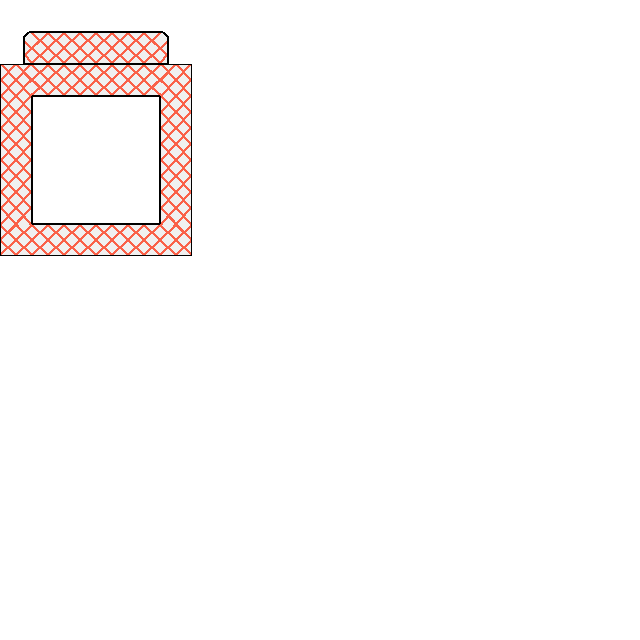
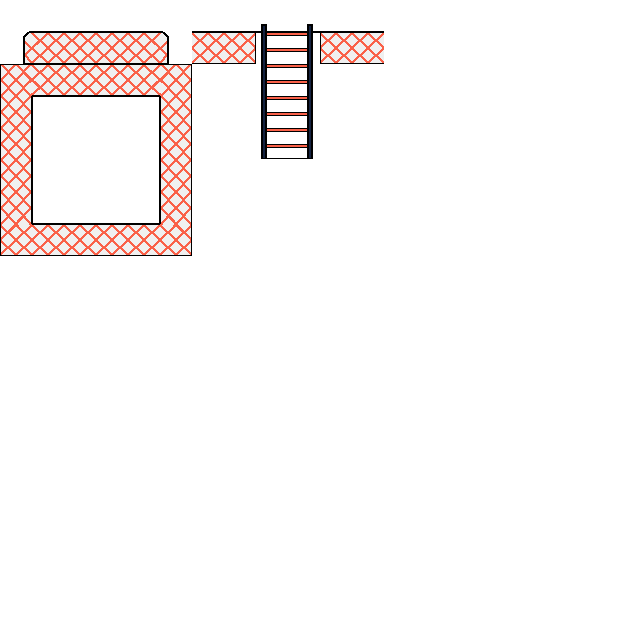
Test

Changed region(s): [[0.2812, 0.0312, 0.5938, 0.25]]

diff --git a/GodotWildJam_44/Skript/Ladder.cs b/GodotWildJam_44/Skript/Ladder.cs
@@ -1,0 +1,21 @@
+using Godot;
+using System;
+
+public class Ladder : Node2D
+{
+    
+    private TileMap ladder = null;
+    private TileMap ladderPlattform = null;
+    public override void _Ready()
+    {
+        ladder = GetNode<TileMap>("Ladder");
+        ladderPlattform = GetNode<TileMap>("LadderPlattform");
+        foreach (Vector2 cell in ladder.GetUsedCells())
+        {
+            
+        }
+    }
+    
+    
+    
+}
